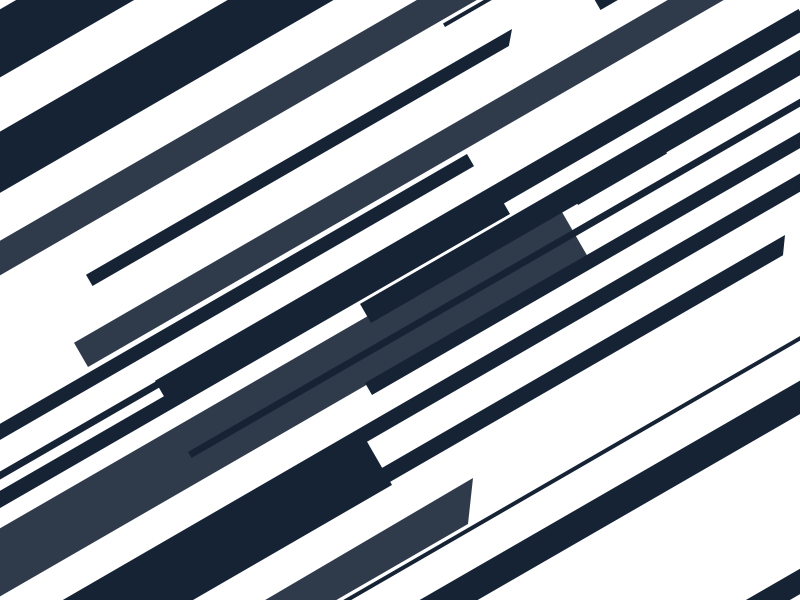
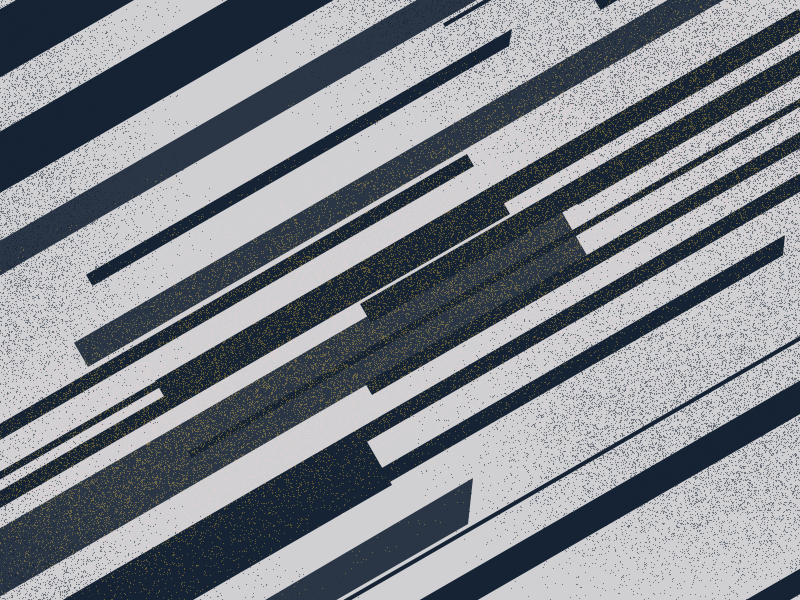
Replace bacgraund image

diff --git a/hw14/css/style.css b/hw14/css/style.css
@@ -1,78 +1,78 @@
 * {
-  padding: 0;
-  margin: 0;
-  border: 0;
+   padding: 0;
+   margin: 0;
+   border: 0;
 }
 
 *,
 *:before,
 *:after {
-  box-sizing: border-box;
+   box-sizing: border-box;
 }
 
 :focus,
 :active {
-  outline: none;
+   outline: none;
 }
 
 a:focus,
 a:active {
-  outline: none;
+   outline: none;
 }
 
 nav,
 footer,
 header,
 aside {
-  display: block;
+   display: block;
 }
 
 html,
 body {
-  height: 100%;
-  width: 100%;
-  font-size: 100%;
-  line-height: 1;
-  font-size: 14px;
-  -ms-text-size-adjust: 100%;
-  -moz-text-size-adjust: 100%;
-  -webkit-text-size-adjust: 100%;
+   height: 100%;
+   width: 100%;
+   font-size: 100%;
+   line-height: 1;
+   font-size: 14px;
+   -ms-text-size-adjust: 100%;
+   -moz-text-size-adjust: 100%;
+   -webkit-text-size-adjust: 100%;
 }
 
 input,
 button,
 textarea {
-  font-family: inherit;
+   font-family: inherit;
 }
 
 input::-ms-clear {
-  display: none;
+   display: none;
 }
 
 button {
-  cursor: pointer;
+   cursor: pointer;
 }
 
 button::-moz-focus-inner {
-  padding: 0;
-  border: 0;
+   padding: 0;
+   border: 0;
 }
 
 a,
 a:visited {
-  text-decoration: none;
+   text-decoration: none;
 }
 
 a:hover {
-  text-decoration: none;
+   text-decoration: none;
 }
 
 ul li {
-  list-style: none;
+   list-style: none;
 }
 
 img {
-  vertical-align: top;
+   vertical-align: top;
 }
 
 h1,
@@ -81,88 +81,91 @@ h3,
 h4,
 h5,
 h6 {
-  font-size: inherit;
-  font-weight: 400;
+   font-size: inherit;
+   font-weight: 400;
 }
 
 /*--------------------*/
 @font-face {
-  font-family: "Museo Sans Rounded";
-  src: url("../fonts/MuseoSansRounded-300.ttf");
-  src: local("Museo Sans Rounded 300"), local("MuseoSansRounded-300"), url("MuseoSansRounded-300.eot?#iefix") format("embedded-opentype"), url("MuseoSansRounded-300.woff2") format("woff2"), url("MuseoSansRounded-300.woff") format("woff"), url("../fonts/MuseoSansRounded-300.ttf") format("truetype");
-  font-weight: normal;
-  font-style: normal;
+   font-family: "Museo Sans Rounded";
+   src: url("../fonts/MuseoSansRounded-300.ttf");
+   src: local("Museo Sans Rounded 300"), local("MuseoSansRounded-300"),
+      url("MuseoSansRounded-300.eot?#iefix") format("embedded-opentype"),
+      url("MuseoSansRounded-300.woff2") format("woff2"), url("MuseoSansRounded-300.woff") format("woff"),
+      url("../fonts/MuseoSansRounded-300.ttf") format("truetype");
+   font-weight: normal;
+   font-style: normal;
 }
 body {
-  padding: 50px;
+   padding: 50px;
 }
 
 .main {
-  width: 800px;
-  height: 600px;
-  border: 1px solid #000;
-  margin: 0 auto;
-  background-color: #d0d0d2;
-  background-image: url(../img/Group.png), url(../img/seng_gray.png);
+   width: 800px;
+   height: 600px;
+   border: 1px solid #000;
+   margin: 0 auto;
+   background-color: #d0d0d2;
+   background-image: url(../img/Group.png);
 }
 .main__wrapp {
-  width: 686px;
-  height: 391px;
-  background-color: #152335;
-  margin-left: 63px;
-  margin-top: 109px;
-  position: relative;
-  border-radius: 2%;
-  border: 1px solid #000;
+   width: 686px;
+   height: 391px;
+   background-color: #152335;
+   margin-left: 63px;
+   margin-top: 109px;
+   position: relative;
+   border-radius: 2%;
+   border: 1px solid #000;
 }
 
 .logo {
-  width: 65px;
-  height: 33px;
-  background-image: url(../img/logo.png);
-  margin-left: 21px;
-  position: absolute;
-  top: 24px;
+   width: 65px;
+   height: 33px;
+   background-image: url(../img/logo.png);
+   margin-left: 21px;
+   position: absolute;
+   top: 24px;
 }
 
 .content {
-  width: 594px;
-  height: 238px;
-  margin: 78px 56px 75px 36px;
-  display: flex;
+   width: 594px;
+   height: 238px;
+   margin: 78px 56px 75px 36px;
+   display: flex;
 }
 .content .content__shoe {
-  width: 328px;
-  border: 1px solid blue;
-  margin-top: 47px;
-  margin-bottom: 32px;
+   width: 328px;
+   border: 1px solid blue;
+   margin-top: 47px;
+   margin-bottom: 32px;
 }
 .content .content__text {
-  width: 185px;
-  height: 238px;
-  border: 1px solid blue;
-  margin-left: 81px;
-  font-family: "Museo Sans Rounded";
+   width: 185px;
+   height: 238px;
+   border: 1px solid blue;
+   margin-left: 81px;
+   font-family: "Museo Sans Rounded";
 }
-.content .content__text .content__text--title {
-  width: 165px;
-  height: 44px;
-  font-size: 24px;
-  font-weight: 100;
-  line-height: 1.08;
-  letter-spacing: 0.48px;
-  text-align: left;
-  color: #e7e7e7;
-  margin-bottom: 16px;
+.content .content__text .content__text-title {
+   width: 165px;
+   height: 44px;
+   font-size: 24px;
+   font-weight: 100;
+   line-height: 1.08;
+   letter-spacing: 0.48px;
+   text-align: left;
+   color: #e7e7e7;
+   margin-bottom: 16px;
 }
-.content .content__text .content__text--description {
-  width: 172px;
-  height: 14px;
-  opacity: 0.54;
-  font-size: 14px;
-  font-weight: 100;
-  line-height: 1.86;
-  text-align: left;
-  color: rgba(231, 231, 231, 0.54);
-  margin-bottom: 24px;
+.content .content__text .content__text-description {
+   width: 172px;
+   height: 14px;
+   opacity: 0.54;
+   font-size: 14px;
+   font-weight: 100;
+   line-height: 1.86;
+   text-align: left;
+   color: rgba(231, 231, 231, 0.54);
+   margin-bottom: 24px;
 }

diff --git a/hw14/index.html b/hw14/index.html
@@ -15,14 +15,17 @@
 
          <div class="content">
             <div class="content__shoe">
-               <img class="content__shoe--img" src="img/Nike-SB.png" alt="shoe">
+               <img class="content__shoe-img" src="img/Nike-SB.png" alt="shoe">
             </div>
             <div class="content__text">
-               <div class="content__text--title">
+               <div class="content__text-title">
                   <p>Nike SB Stefan Janoski Max</p>
                </div>
-               <div class="content__text--description">
+               <div class="content__text-description">
                   <p>Unisex Skateboarding Shoe</p>
+               </div>
+               <div class="rating">
+
                </div>
             </div>
          </div>
